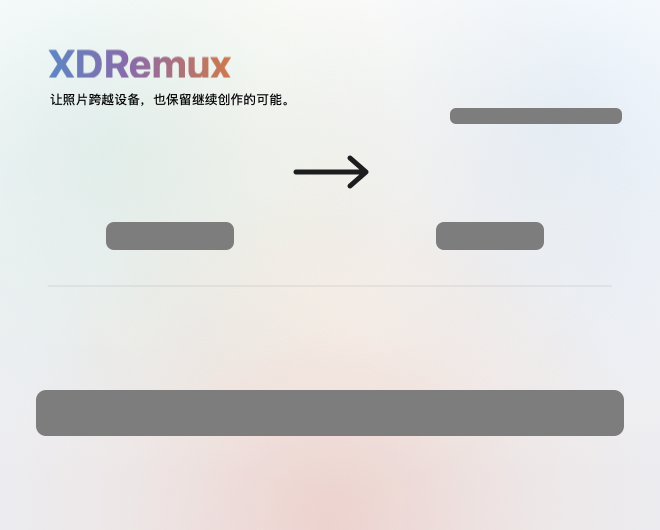
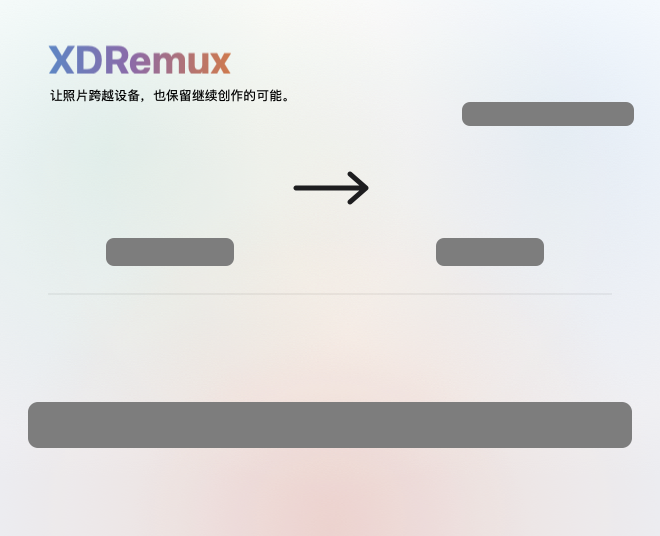
fix(macos): harden make_dmg guards, refine label spacing, cache venv

diff --git a/tools/apple/dmg/gen_background.swift b/tools/apple/dmg/gen_background.swift
@@ -1,8 +1,8 @@
 #!/usr/bin/env swift
 // Render the installer window background for the macOS DMG:
 //
-//   tools/apple/dmg/background.png     660x530  (1x)
-//   tools/apple/dmg/background@2x.png  1320x1060 (Retina)
+//   tools/apple/dmg/background.png     660x536  (1x)
+//   tools/apple/dmg/background@2x.png  1320x1072 (Retina)
 //
 // Follows the light theme of xdremux.app: an off-white surface with soft
 // teal, blue and warm horizon glows, the "XDRemux" wordmark in the site's
@@ -19,7 +19,7 @@
 // licence files and the privacy shortcut move sideways as the file count
 // changes.
 //
-// The picture is drawn 470 points tall like the window's content area, plus
+// The picture is drawn 476 points tall like the window's content area, plus
 // 60 points of spare background underneath: Finder crops the picture at the
 // bottom of the content area, whose height depends on the title bar.
 // The window size and the icon positions live in settings.py; keep the
@@ -33,15 +33,15 @@ import ImageIO
 import UniformTypeIdentifiers
 
 let width = 660.0
-let contentHeight = 470.0
+let contentHeight = 476.0
 let height = contentHeight + 60.0
 
 // Icon centres and size from settings.py.
-let heroY = 172.0
-let smallY = 340.0
-let link = (x: 536.0, y: 58.0)
+let heroY = 188.0
+let smallY = 352.0
+let link = (x: 548.0, y: 52.0)
 let iconSize = 96.0
-let dividerY = 286.0
+let dividerY = 294.0
 // #7d7d7d is the gray where near-black and white labels both stay near 4:1.
 let labelPlate = "7d7d7d"
 
@@ -159,25 +159,25 @@ func render(scale: Int) -> CGImage? {
     glow(ctx, center: CGPoint(x: 330, y: 190), radius: 320, warm1, alpha: 0.16)
 
     // Label mats. Just below a 96pt icon whose centre is `iconY`.
-    // The website label has only the gap above the Applications icon (that
-    // icon starts at heroY - 48), so its mat is one line tall and stops there.
+    // The website link label mat gets 24pt height and still leaves a clear
+    // 14pt gap above the top edge of the Applications icon (`heroY - 48`).
     let belowIcon = iconSize / 2 + 2
     labelMat(ctx, centerX: 170, top: heroY + belowIcon, textWidth: 100, lines: 1)   // XDRemux Flutter
     labelMat(ctx, centerX: 490, top: heroY + belowIcon, textWidth: 80, lines: 1)    // Applications
-    let linkMat = CGRect(x: link.x - 86, y: link.y + iconSize / 2 + 2, width: 172, height: 16)
-    ctx.addPath(CGPath(roundedRect: linkMat, cornerWidth: 6, cornerHeight: 6, transform: nil))
+    let linkMat = CGRect(x: link.x - 86, y: link.y + belowIcon, width: 172, height: 24)
+    ctx.addPath(CGPath(roundedRect: linkMat, cornerWidth: 8, cornerHeight: 8, transform: nil))
     ctx.setFillColor(color(labelPlate))
     ctx.fillPath()
     let shelfTop = smallY + belowIcon
-    let shelf = CGRect(x: 36, y: shelfTop, width: width - 72, height: 2 * 16 + 14)
+    let shelf = CGRect(x: 28, y: shelfTop, width: width - 56, height: 2 * 16 + 14)
     ctx.addPath(CGPath(roundedRect: shelf, cornerWidth: 10, cornerHeight: 10, transform: nil))
     ctx.setFillColor(color(labelPlate))
     ctx.fillPath()
 
     // Wordmark and tagline, top-left.
-    gradientText(ctx, "XDRemux", x: 48, baseline: 78, size: 40, weight: .bold,
+    gradientText(ctx, "XDRemux", x: 48, baseline: 74, size: 40, weight: .bold,
                  stops: ["5d86c4", "8b6aa8", "d07a4c"], at: [0, 0.45, 1])
-    text(ctx, "让照片跨越设备，也保留继续创作的可能。", x: 50, baseline: 104, size: 13, fill: color(fgDim))
+    text(ctx, "让照片跨越设备，也保留继续创作的可能。", x: 50, baseline: 100, size: 13, fill: color(fgDim))
 
     // Hairline between the drag row and the small print.
     ctx.setStrokeColor(color("000000", 0.10))

diff --git a/tools/apple/test_dmg.py b/tools/apple/test_dmg.py
@@ -1,0 +1,181 @@
+"""Tests for tools/apple/dmg installer helpers and layout invariants."""
+
+import os
+from pathlib import Path
+import re
+import shutil
+import struct
+import subprocess
+import sys
+import tempfile
+import unittest
+
+
+APPLE_TOOLS_DIR = Path(__file__).resolve().parent
+DMG_TOOLS_DIR = APPLE_TOOLS_DIR / "dmg"
+sys.path.insert(0, str(DMG_TOOLS_DIR))
+import set_file_icon  # noqa: E402
+
+
+class DmgInstallerTests(unittest.TestCase):
+    def test_resource_fork_wraps_icns_with_valid_offsets(self):
+        fake_icns = b"icns" + b"\x00\x00\x00\x20" + (b"\xAB" * 24)
+        fork = set_file_icon.resource_fork(fake_icns)
+
+        data_offset, map_offset, data_len, map_len = struct.unpack(">IIII", fork[:16])
+        self.assertEqual(data_offset, 256)
+        self.assertEqual(data_len, 4 + len(fake_icns))
+        self.assertEqual(map_offset, data_offset + data_len)
+        self.assertEqual(len(fork), map_offset + map_len)
+
+        embedded_len = struct.unpack(">I", fork[data_offset : data_offset + 4])[0]
+        self.assertEqual(embedded_len, len(fake_icns))
+        self.assertEqual(
+            fork[data_offset + 4 : data_offset + 4 + len(fake_icns)], fake_icns
+        )
+
+    def test_set_file_icon_rejects_non_icns(self):
+        with tempfile.TemporaryDirectory(prefix="xdremux-icns-test-") as tmp:
+            root = Path(tmp)
+            target = root / "sample.inetloc"
+            target.write_text("placeholder", encoding="utf-8")
+            bad_icns = root / "not_an_icon.icns"
+            bad_icns.write_bytes(b"PNG!")
+            with self.assertRaises(SystemExit):
+                set_file_icon.set_file_icon(str(target), str(bad_icns))
+
+    def test_settings_and_background_geometry_stay_aligned_and_clear(self):
+        with tempfile.TemporaryDirectory(prefix="xdremux-dmg-settings-") as tmp:
+            stage = Path(tmp) / "stage"
+            stage.mkdir()
+            (stage / "XDRemux.app").mkdir()
+            (stage / "LICENSE.txt").write_text("gpl", encoding="utf-8")
+            (stage / "LICENSING.md").write_text("notes", encoding="utf-8")
+            (stage / "打开隐私与安全性 (Privacy & Security).inetloc").write_text(
+                "plist", encoding="utf-8"
+            )
+            links = Path(tmp) / "links"
+            links.mkdir()
+            (links / "官网 xdremux.app.webloc").write_text("webloc", encoding="utf-8")
+
+            ns = {
+                "defines": {
+                    "stage": str(stage),
+                    "app": "XDRemux.app",
+                    "icon": "",
+                    "assets": str(DMG_TOOLS_DIR),
+                    "decorated": "",
+                    "links": str(links),
+                }
+            }
+            settings_src = (DMG_TOOLS_DIR / "settings.py").read_text(encoding="utf-8")
+            exec(compile(settings_src, str(DMG_TOOLS_DIR / "settings.py"), "exec"), ns)
+
+            swift_src = (DMG_TOOLS_DIR / "gen_background.swift").read_text(
+                encoding="utf-8"
+            )
+            content_w = float(re.search(r"let width = ([0-9.]+)", swift_src).group(1))
+            content_h = float(
+                re.search(r"let contentHeight = ([0-9.]+)", swift_src).group(1)
+            )
+            hero_y = float(re.search(r"let heroY = ([0-9.]+)", swift_src).group(1))
+            small_y = float(re.search(r"let smallY = ([0-9.]+)", swift_src).group(1))
+            link_match = re.search(
+                r"let link = \(x: ([0-9.]+), y: ([0-9.]+)\)", swift_src
+            )
+            link_x, link_y = float(link_match.group(1)), float(link_match.group(2))
+            link_mat_h = float(
+                re.search(r"linkMat = CGRect\([^)]*height: ([0-9.]+)\)", swift_src).group(1)
+            )
+
+            self.assertEqual(ns["CONTENT"], (int(content_w), int(content_h)))
+            self.assertEqual(ns["HERO_Y"], int(hero_y))
+            self.assertEqual(ns["SMALL_Y"], int(small_y))
+            self.assertEqual(ns["LINK"], (int(link_x), int(link_y)))
+
+            # The website link label mat must keep a positive gap above the
+            # top of the Applications icon below it.
+            icon_half = ns["icon_size"] / 2.0
+            link_mat_bottom = link_y + icon_half + 2.0 + link_mat_h
+            apps_icon_top = hero_y - icon_half
+            self.assertGreaterEqual(apps_icon_top - link_mat_bottom, 10.0)
+
+            # Bottom row items stay centered symmetrically with margin for the
+            # long Privacy & Security shortcut name.
+            locs = ns["icon_locations"]
+            self.assertGreaterEqual(
+                content_w - locs["打开隐私与安全性 (Privacy & Security).inetloc"][0],
+                120.0,
+            )
+            self.assertIn("官网 xdremux.app.webloc", ns["hide_extensions"])
+            self.assertIn(
+                "打开隐私与安全性 (Privacy & Security).inetloc", ns["hide_extensions"]
+            )
+
+    @unittest.skipUnless(os.name == "posix", "requires Bash")
+    def test_make_dmg_rejects_missing_or_multiple_app_bundles(self):
+        script = DMG_TOOLS_DIR / "make_dmg.sh"
+        with tempfile.TemporaryDirectory(prefix="xdremux-dmg-stage-") as tmp:
+            root = Path(tmp)
+            stage = root / "stage"
+            stage.mkdir()
+            env = dict(os.environ)
+            env["XDREMUX_DMG_VENV"] = str(Path.home() / ".cache/xdremux/dmgbuild-venv")
+
+            # Zero .app bundles fails.
+            no_app = subprocess.run(
+                ["bash", str(script), "TestVol", str(root / "out.dmg"), str(stage)],
+                env=env,
+                capture_output=True,
+                text=True,
+            )
+            self.assertNotEqual(no_app.returncode, 0)
+
+            # Two .app bundles fails explicitly rather than picking silently.
+            (stage / "One.app").mkdir()
+            (stage / "Two.app").mkdir()
+            two_apps = subprocess.run(
+                ["bash", str(script), "TestVol", str(root / "out.dmg"), str(stage)],
+                env=env,
+                capture_output=True,
+                text=True,
+            )
+            self.assertNotEqual(two_apps.returncode, 0)
+
+    @unittest.skipUnless(
+        sys.platform == "darwin"
+        and (Path.home() / ".cache/xdremux/dmgbuild-venv/bin/dmgbuild").exists()
+        and shutil.which("hdiutil") is not None,
+        "requires macOS with cached dmgbuild-venv",
+    )
+    def test_make_dmg_strict_survives_missing_volume_icon(self):
+        script = DMG_TOOLS_DIR / "make_dmg.sh"
+        with tempfile.TemporaryDirectory(prefix="xdremux-dmg-strict-") as tmp:
+            root = Path(tmp)
+            stage = root / "stage"
+            stage.mkdir()
+            (stage / "Sample.app").mkdir()
+            (stage / "Sample.app" / "Contents").mkdir()
+            (stage / "LICENSE.txt").write_text("gpl", encoding="utf-8")
+            (stage / "LICENSING.md").write_text("notes", encoding="utf-8")
+            os.symlink("/Applications", stage / "Applications")
+
+            out_dmg = root / "sample.dmg"
+            env = dict(os.environ)
+            env["XDREMUX_DMG_STRICT"] = "1"
+            res = subprocess.run(
+                [
+                    "bash",
+                    str(script),
+                    "Sample",
+                    str(out_dmg),
+                    str(stage),
+                    str(root / "nonexistent" / "AppIcon.icns"),
+                ],
+                env=env,
+                capture_output=True,
+                text=True,
+            )
+            self.assertEqual(res.returncode, 0, res.stderr + res.stdout)
+            self.assertIn("warning: volume icon not found", res.stderr)
+            self.assertTrue(out_dmg.is_file())

diff --git a/tools/apple/dmg/settings.py b/tools/apple/dmg/settings.py
@@ -21,16 +21,16 @@
 import os
 
 # Content area of the window in points; background.png is drawn for it.
-CONTENT = (660, 470)
-HERO_Y = 172
-SMALL_Y = 340
-# Wide enough that the privacy shortcut's name, at text_size 12, does not
-# touch its neighbour or the window edge. Tightened only when four or more
-# items are staged.
-SMALL_SPACING = 200
-# Website link, under the top-right corner, clear of the hero row. Far
-# enough from the edge for its label, even when Finder shows extensions.
-LINK = (536, 58)
+CONTENT = (660, 476)
+HERO_Y = 188
+SMALL_Y = 352
+# Wide enough that the privacy shortcut's name, at text_size 12, fits cleanly
+# inside the bottom shelf. Tightened only when four or more items are staged.
+SMALL_SPACING = 186
+# Website link, under the top-right corner, clear of the hero row (14pt gap
+# between the bottom of the 24pt label mat and Applications' icon top) and
+# far enough from the edge even when Finder shows extensions.
+LINK = (548, 52)
 
 # Finder's window bounds include the title bar, so the window is taller than
 # the picture. 32 is the title bar of a toolbar-less window on macOS 26; on
